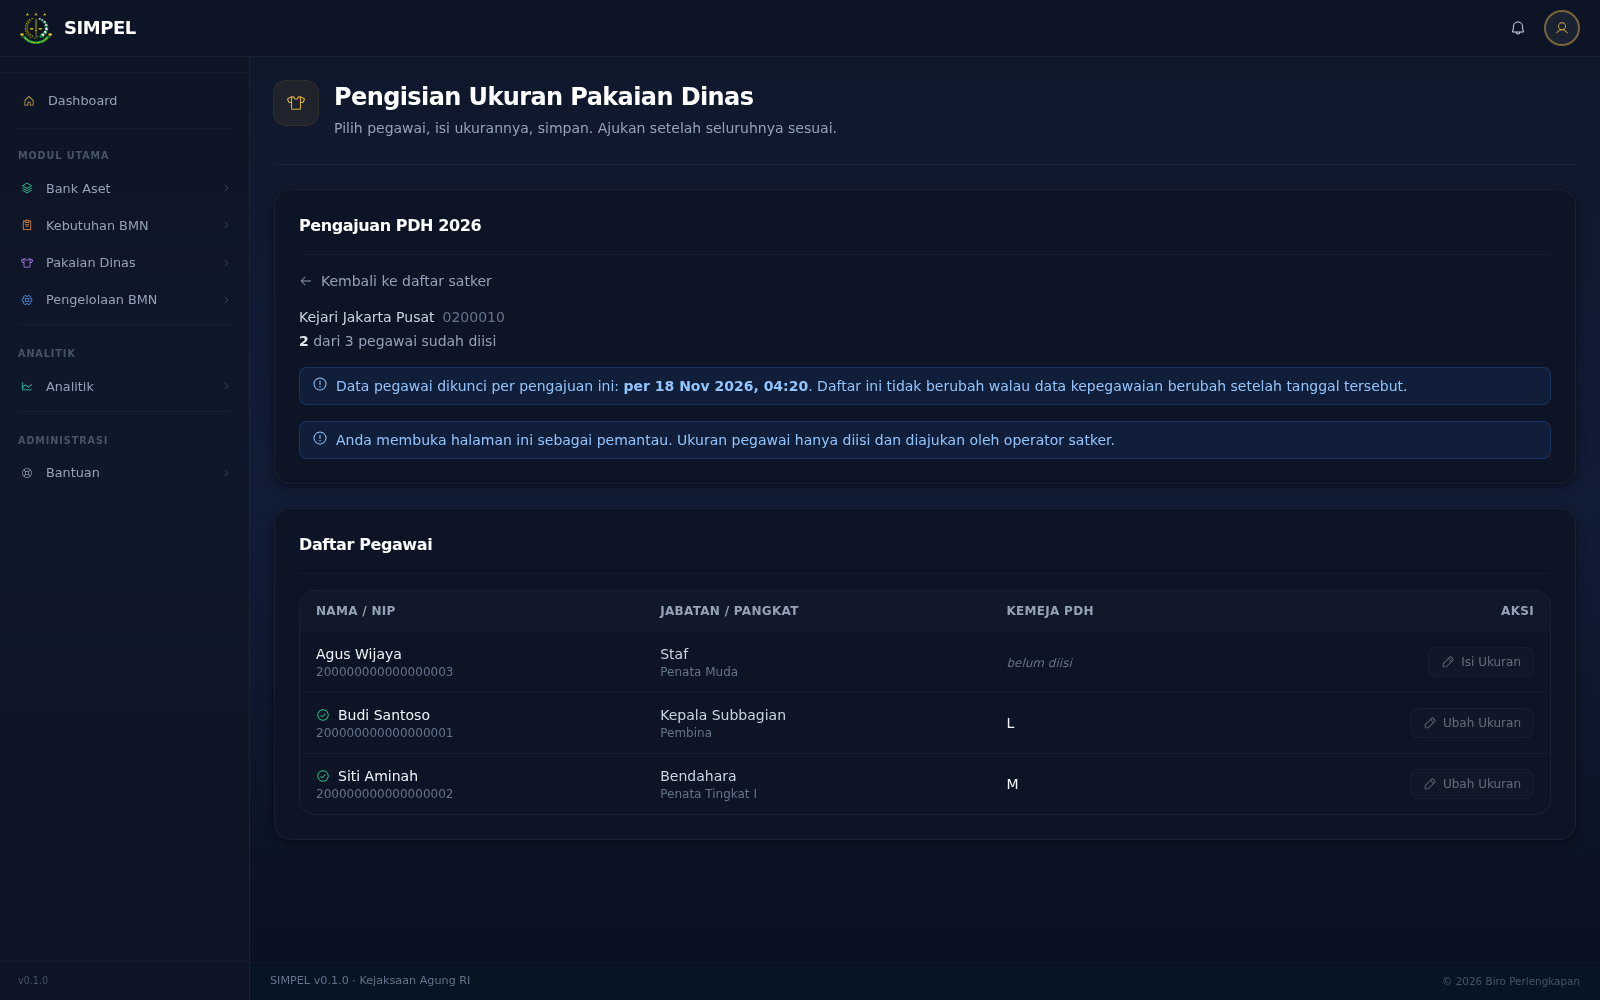
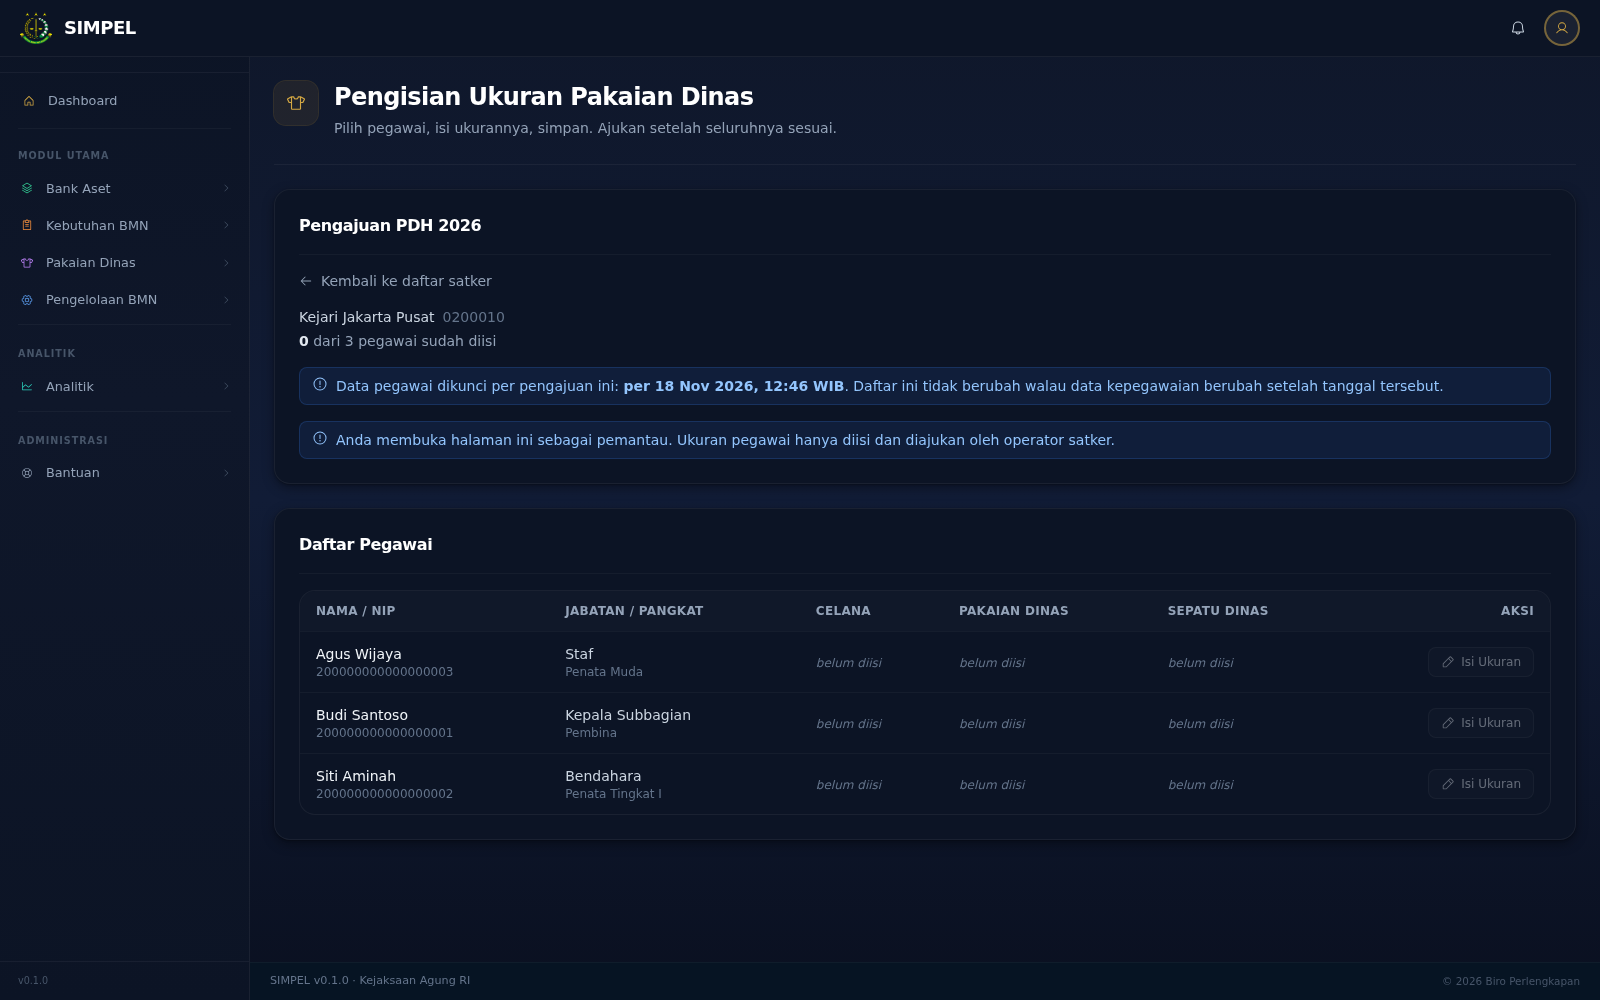
fix(pakaian-dinas): tutup 3 temuan review pada snapshot roster (V018)
Temuan 1 — pembuatan pengajuan terblokir satu pegawai tanpa nama.
`integrasi.mysimkari_pegawai.nama` boleh NULL, sedangkan kolom snapshot
NOT NULL. Karena snapshot adalah satu INSERT..SELECT untuk semua satker
target, satu pegawai tanpa nama menggagalkan seluruh transaksi — periode
nasional pun tidak terbentuk. Penyalinan memakai `COALESCE(p.nama, p.nip)`
sehingga pegawai tetap ikut, dilabeli NIP. Diuji lewat
`pegawai_tanpa_nama_tidak_memblokir_pembuatan_pengajuan`.

Temuan 2 — tanggal as-of bisa berbeda antara layar dan ekspor.
Banner memakai zona lokal pembaca (`format_iso_local`) sedangkan header
ekspor PDF/Excel memakai WIB; snapshot 16:30 UTC bertanggal beda di WITA.
Tambah `format_iso_wib` (lib/ui) yang dipin ke WIB dan menyebut zonanya,
lalu pakai di ketiga banner (daftar pengajuan, pengisian, laporan). Kini
tanggal di layar sama dengan yang tercetak di ekspor.

Temuan 3 — kolom snapshot belum ikut standar penamaan F5-B.
Kolom `nama` generik diganti `nama_pegawai` di migrasi V018, penulis
(`pengajuan.rs`), dan pembaca (`roster.rs`, tetap `AS nama` agar bentuk
respons tak berubah).

Sekaligus menyegarkan 3 screenshot (kini menampilkan "... WIB") dan
memperjelas docs operator/validator soal zona WIB.

diff --git a/lib/ui/src/utils/formatters.rs b/lib/ui/src/utils/formatters.rs
@@ -345,6 +345,40 @@ pub fn format_iso_local_opt(iso: Option<&str>) -> String {
     }
 }
 
+/// `"2026-08-28T16:30:00+00:00"` → `"28 Agu 2026, 23:30 WIB"`.
+///
+/// Same shape as [`format_iso_local`] but pinned to WIB (UTC+7) instead of the
+/// reader's clock, and tagged with the zone. Use it wherever a timestamp is
+/// stated as a FACT that another surface states too: the roster snapshot's
+/// as-of date is shown on screen *and* printed into the PDF/Excel header, and
+/// the export pins WIB. A reader in WITA would otherwise see the banner date as
+/// the next day while the export says the previous one — the same campaign
+/// frozen on two different dates.
+///
+/// The zone suffix is deliberate: a pinned zone the reader cannot see is just a
+/// wrong time with extra confidence.
+///
+/// A value that will not parse is returned unchanged, like [`format_iso_local`].
+pub fn format_iso_wib(iso: &str) -> String {
+    use chrono::{Datelike, FixedOffset, Timelike};
+    // WIB has no daylight saving, so a fixed +07:00 is exact.
+    let wib = FixedOffset::east_opt(7 * 3600).expect("+07:00 is a valid offset");
+    match DateTime::parse_from_rfc3339(iso) {
+        Ok(dt) => {
+            let wib = dt.with_timezone(&wib);
+            format!(
+                "{} {} {}, {:02}:{:02} WIB",
+                wib.day(),
+                BULAN_SINGKAT[(wib.month() as usize).saturating_sub(1).min(11)],
+                wib.year(),
+                wib.hour(),
+                wib.minute(),
+            )
+        }
+        Err(_) => iso.to_string(),
+    }
+}
+
 /// Turn a raw `User-Agent` header into a short, human label.
 ///
 /// The header is a protocol artifact — `Mozilla/5.0 (X11; Linux x86_64)
@@ -430,6 +464,45 @@ mod iso_local_tests {
         assert_eq!(format_iso_local("kemarin"), "kemarin");
         assert_eq!(format_iso_local_opt(None), "—");
         assert_eq!(format_iso_local_opt(Some("  ")), "—");
+    }
+}
+
+#[cfg(test)]
+mod iso_wib_tests {
+    use super::format_iso_wib;
+
+    /// The point of the pinned formatter: the hour is WIB regardless of where
+    /// the reader is, and the zone is stated. The `Local`-based sibling cannot
+    /// assert an hour; this one must.
+    #[test]
+    fn the_hour_is_wib_not_the_readers_clock() {
+        assert_eq!(
+            format_iso_wib("2026-08-28T09:26:04.708688+00:00"),
+            "28 Agu 2026, 16:26 WIB"
+        );
+        // `Z` and `+00:00` spell the same instant and must render the same.
+        assert_eq!(
+            format_iso_wib("2026-08-28T09:26:04Z"),
+            "28 Agu 2026, 16:26 WIB"
+        );
+    }
+
+    /// The export header pins WIB too, so the *date* the screen prints must be
+    /// the WIB date — the case a reader in WITA used to see a day ahead. 16:30
+    /// UTC is 23:30 WIB (same day) but 00:30 WITA (next day).
+    #[test]
+    fn the_date_matches_the_wib_export_header() {
+        let out = format_iso_wib("2026-11-17T16:30:00+00:00");
+        assert!(
+            out.starts_with("17 Nov 2026"),
+            "must stay 17 Nov in WIB: {out}"
+        );
+        assert!(out.ends_with("WIB"), "the zone must be stated: {out}");
+    }
+
+    #[test]
+    fn an_unparseable_value_is_passed_through_not_hidden() {
+        assert_eq!(format_iso_wib("kemarin"), "kemarin");
     }
 }
 

diff --git a/layanan/perlengkapan/tests/integration/pakaian_dinas_roster_snapshot_test.rs b/layanan/perlengkapan/tests/integration/pakaian_dinas_roster_snapshot_test.rs
@@ -29,6 +29,7 @@ const SATKER_A: &str = "SKR001";
 const SATKER_B: &str = "SKR002";
 const NIP_A: &str = "19800101000000001";
 const NIP_BARU: &str = "19990101000000099";
+const NIP_TANPA_NAMA: &str = "19750101000000077";
 
 type Headers = Vec<(reqwest::header::HeaderName, reqwest::header::HeaderValue)>;
 
@@ -280,6 +281,47 @@ async fn tanggal_snapshot_terlihat_untuk_semua_role() {
             "role {role} harus melihat tanggal snapshot yang sama: {data}"
         );
     }
+
+    teardown_test_db(&db_name).await;
+}
+
+/// MySIMKARI mengizinkan `nama` NULL (dan `storage.rs` memang menulis NULL saat
+/// nama tak tersedia), sedangkan kolom snapshot NOT NULL. Menyalin NULL apa
+/// adanya menggagalkan SELURUH transaksi pembuatan pengajuan — dan karena
+/// snapshot adalah satu INSERT..SELECT untuk semua satker target, satu pegawai
+/// tanpa nama pada SATU satker memblokir pembuatan periode untuk SEMUA satker
+/// (termasuk yang datanya lengkap). Pegawai itu tetap harus ikut ke daftar.
+#[tokio::test]
+async fn pegawai_tanpa_nama_tidak_memblokir_pembuatan_pengajuan() {
+    let (app, db, db_name) = setup_test_app().await;
+    let server = TestServer::new(app);
+
+    // Satu pegawai tanpa nama di SKR001 SEBELUM kampanye dibuat.
+    let client = db.pool().get().await.unwrap();
+    client
+        .execute(
+            "INSERT INTO integrasi.mysimkari_pegawai (nip, nama, satker_id, nama_satker, jabatan, jk)
+             VALUES ($1, NULL, 'api-skr001', 'KEJAKSAAN NEGERI UJI A', 'Staf', 'L')",
+            &[&NIP_TANPA_NAMA],
+        )
+        .await
+        .unwrap();
+
+    // Pembuatan pengajuan harus berhasil (dulu gagal karena NOT NULL).
+    let (pengajuan_id, _, _) = buat_kampanye(&server).await;
+
+    // Pegawai tanpa nama tetap muncul, dilabeli NIP sebagai pengganti nama.
+    let data = roster(&server, &pengajuan_id, SATKER_A).await;
+    let orang = data["pegawai"].as_array().unwrap();
+    let tanpa_nama = orang
+        .iter()
+        .find(|p| p["nip"] == NIP_TANPA_NAMA)
+        .unwrap_or_else(|| panic!("pegawai tanpa nama harus tetap ada di roster: {data}"));
+    assert_eq!(
+        tanpa_nama["nama"].as_str(),
+        Some(NIP_TANPA_NAMA),
+        "nama NULL diganti NIP, bukan dikosongkan atau dihilangkan: {tanpa_nama}"
+    );
 
     teardown_test_db(&db_name).await;
 }

diff --git a/layanan/perlengkapan/src/pakaian_dinas/repository/pengajuan.rs b/layanan/perlengkapan/src/pakaian_dinas/repository/pengajuan.rs
@@ -335,9 +335,16 @@ impl PakaianDinasRepository {
         tx.execute(
             r#"
                 INSERT INTO perlengkapan.pengajuan_pakaian_dinas_pegawai_snapshot
-                    (pengajuan_id, satker_id, nip, nama, pangkat, jabatan, eselon,
+                    (pengajuan_id, satker_id, nip, nama_pegawai, pangkat, jabatan, eselon,
                      jenis_kelamin, gol_kd, jenis, foto, snapshot_at)
-                SELECT $1::uuid, ms.kode_satker, p.nip, p.nama, p.golpang, p.jabatan,
+                -- `COALESCE(p.nama, p.nip)`: MySIMKARI mengizinkan nama NULL dan
+                -- penyimpanannya memang menulis NULL saat nama tak tersedia.
+                -- Kolom snapshot NOT NULL, jadi menyalin NULL apa adanya
+                -- menggagalkan seluruh transaksi — dan karena ini satu
+                -- INSERT..SELECT untuk semua satker target, satu pegawai tanpa
+                -- nama memblokir pembuatan periode untuk SELURUH satker.
+                -- Pegawai tetap ikut serta; NIP dipakai sebagai label pengganti.
+                SELECT $1::uuid, ms.kode_satker, p.nip, COALESCE(p.nama, p.nip), p.golpang, p.jabatan,
                        p.eselon, p.jk, p.gol_kd, p.jenis_jabatan_terakhir, p.foto, $2
                 FROM integrasi.mysimkari_pegawai p
                 JOIN integrasi.mysimkari_satker ms ON ms.api_id = p.satker_id

diff --git a/layanan/perlengkapan/src/pakaian_dinas/repository/roster.rs b/layanan/perlengkapan/src/pakaian_dinas/repository/roster.rs
@@ -121,11 +121,11 @@ impl PakaianDinasRepository {
             client
                 .query(
                     r#"
-                    SELECT nip, nama, jabatan, pangkat AS golpang, gol_kd, eselon,
+                    SELECT nip, nama_pegawai AS nama, jabatan, pangkat AS golpang, gol_kd, eselon,
                            jenis_kelamin AS jk, jenis AS jenis_jabatan_terakhir, foto
                     FROM perlengkapan.pengajuan_pakaian_dinas_pegawai_snapshot
                     WHERE pengajuan_id = $1 AND satker_id = $2
-                    ORDER BY nama ASC
+                    ORDER BY nama_pegawai ASC
                     "#,
                     &[&pengajuan_id, &satker_code],
                 )
@@ -334,7 +334,7 @@ impl PakaianDinasRepository {
             client
                 .query_opt(
                     r#"
-                    SELECT nip, nama, jabatan, pangkat AS golpang, gol_kd, eselon,
+                    SELECT nip, nama_pegawai AS nama, jabatan, pangkat AS golpang, gol_kd, eselon,
                            jenis_kelamin AS jk, jenis AS jenis_jabatan_terakhir
                     FROM perlengkapan.pengajuan_pakaian_dinas_pegawai_snapshot
                     WHERE pengajuan_id = $1 AND satker_id = $2 AND nip = $3

diff --git a/antarmuka/perlengkapan/src/components/pakaian_dinas_pengisian.rs b/antarmuka/perlengkapan/src/components/pakaian_dinas_pengisian.rs
@@ -33,7 +33,7 @@ use crate::api::pakaian_dinas::{
 };
 use crate::components::layout::{ErrorState, LoadingState, PageLayout, SectionCard};
 use lib_ui::components::icon::AppIcon;
-use lib_ui::utils::formatters::format_iso_local;
+use lib_ui::utils::formatters::{format_iso_local, format_iso_wib};
 use phosphor_leptos::{
     ARROW_LEFT, CHECK_CIRCLE, PAPER_PLANE_TILT, PENCIL_SIMPLE, WARNING_CIRCLE, X,
 };
@@ -316,7 +316,7 @@ fn halaman(
                             <span>
                                 "Data pegawai dikunci per pengajuan ini: "
                                 <span class="font-semibold">
-                                    {format!("per {}", format_iso_local(&iso))}
+                                    {format!("per {}", format_iso_wib(&iso))}
                                 </span>
                                 ". Daftar ini tidak berubah walau data kepegawaian berubah setelah tanggal tersebut."
                             </span>

diff --git a/antarmuka/perlengkapan/src/components/pakaian_dinas_pengajuan_list.rs b/antarmuka/perlengkapan/src/components/pakaian_dinas_pengajuan_list.rs
@@ -19,7 +19,7 @@ use leptos::prelude::*;
 use leptos::task::spawn_local;
 use leptos_fetch::QueryClient;
 use lib_ui::components::icon::AppIcon;
-use lib_ui::utils::formatters::format_iso_local;
+use lib_ui::utils::formatters::format_iso_wib;
 use phosphor_leptos::{
     BUILDING, CALENDAR_CHECK, CALENDAR_X, PENCIL_SIMPLE, PLUS, TRASH, WARNING_CIRCLE,
 };
@@ -571,7 +571,7 @@ fn render_pengajuan_cards(
                     let snapshot_line = item
                         .roster_snapshot_at
                         .clone()
-                        .map(|iso| format!("Data pegawai per {}", format_iso_local(&iso)));
+                        .map(|iso| format!("Data pegawai per {}", format_iso_wib(&iso)));
                     let has_snapshot = snapshot_line.is_some();
                     view! {
                         <div class="rounded-2xl border border-white/[0.06] bg-surface-panel p-5 transition hover:border-white/10">

diff --git a/antarmuka/perlengkapan/src/components/pakaian_dinas_laporan.rs b/antarmuka/perlengkapan/src/components/pakaian_dinas_laporan.rs
@@ -15,7 +15,7 @@ use crate::components::layout::{
 use leptos::prelude::*;
 use leptos_fetch::QueryClient;
 use lib_ui::components::icon::{AppIcon, icon_from_fa_class};
-use lib_ui::utils::formatters::format_iso_local;
+use lib_ui::utils::formatters::format_iso_wib;
 use phosphor_leptos::{CHART_PIE, FILE_PDF, FILE_XLS, INFO, USERS};
 
 /// Filter-option queries — both keyed `()` because the dropdowns
@@ -546,7 +546,7 @@ pub fn PakaianDinasLaporan() -> impl IntoView {
                             <span>
                                 "Data pegawai laporan ini dikunci per pengajuan: "
                                 <span class="font-semibold">
-                                    {format!("per {}", format_iso_local(&iso))}
+                                    {format!("per {}", format_iso_wib(&iso))}
                                 </span>
                                 "."
                             </span>

diff --git a/docs/USER_GUIDE_OPERATOR_SATKER.md b/docs/USER_GUIDE_OPERATOR_SATKER.md
@@ -120,8 +120,9 @@ Jika pengajuan dikembalikan untuk revisi:
 2. **Input Ukuran Pegawai**
    - Sistem akan menampilkan daftar pegawai dari MySIMKARI
    - Daftar ini **dikunci per pengajuan**: validator pusat membekukannya saat
-     membuat periode, dan halaman menampilkan tanggalnya ("Data pegawai dikunci
-     per pengajuan ini: per <tanggal>"). Pegawai yang pindah masuk atau keluar
+     membuat periode, dan halaman menampilkan tanggalnya dalam WIB ("Data
+     pegawai dikunci per pengajuan ini: per <tanggal> WIB") — tanggal yang sama
+     yang tercetak di header ekspor PDF/Excel. Pegawai yang pindah masuk atau keluar
      *setelah* tanggal itu tidak mengubah daftar periode tersebut — supaya semua
      pihak melihat daftar orang yang sama sepanjang periode berjalan.
    - Untuk setiap pegawai, input:

diff --git a/docs/USER_GUIDE_VALIDATOR.md b/docs/USER_GUIDE_VALIDATOR.md
@@ -191,7 +191,8 @@ Menampilkan:
    - Cek kelengkapan data ukuran
    - Verifikasi data pegawai (eselon, pangkat, jabatan)
    - Halaman menampilkan **tanggal pembekuan daftar pegawai** untuk periode ini
-     ("Data pegawai dikunci per pengajuan ini: per <tanggal>"). Daftar orangnya
+     dalam WIB ("Data pegawai dikunci per pengajuan ini: per <tanggal> WIB"),
+     tanggal yang sama yang tercetak di header ekspor PDF/Excel. Daftar orangnya
      adalah yang dibekukan saat validator pusat membuat periode, sehingga angka
      yang Anda review sama dengan yang dilihat operator dan wilayah.
 
